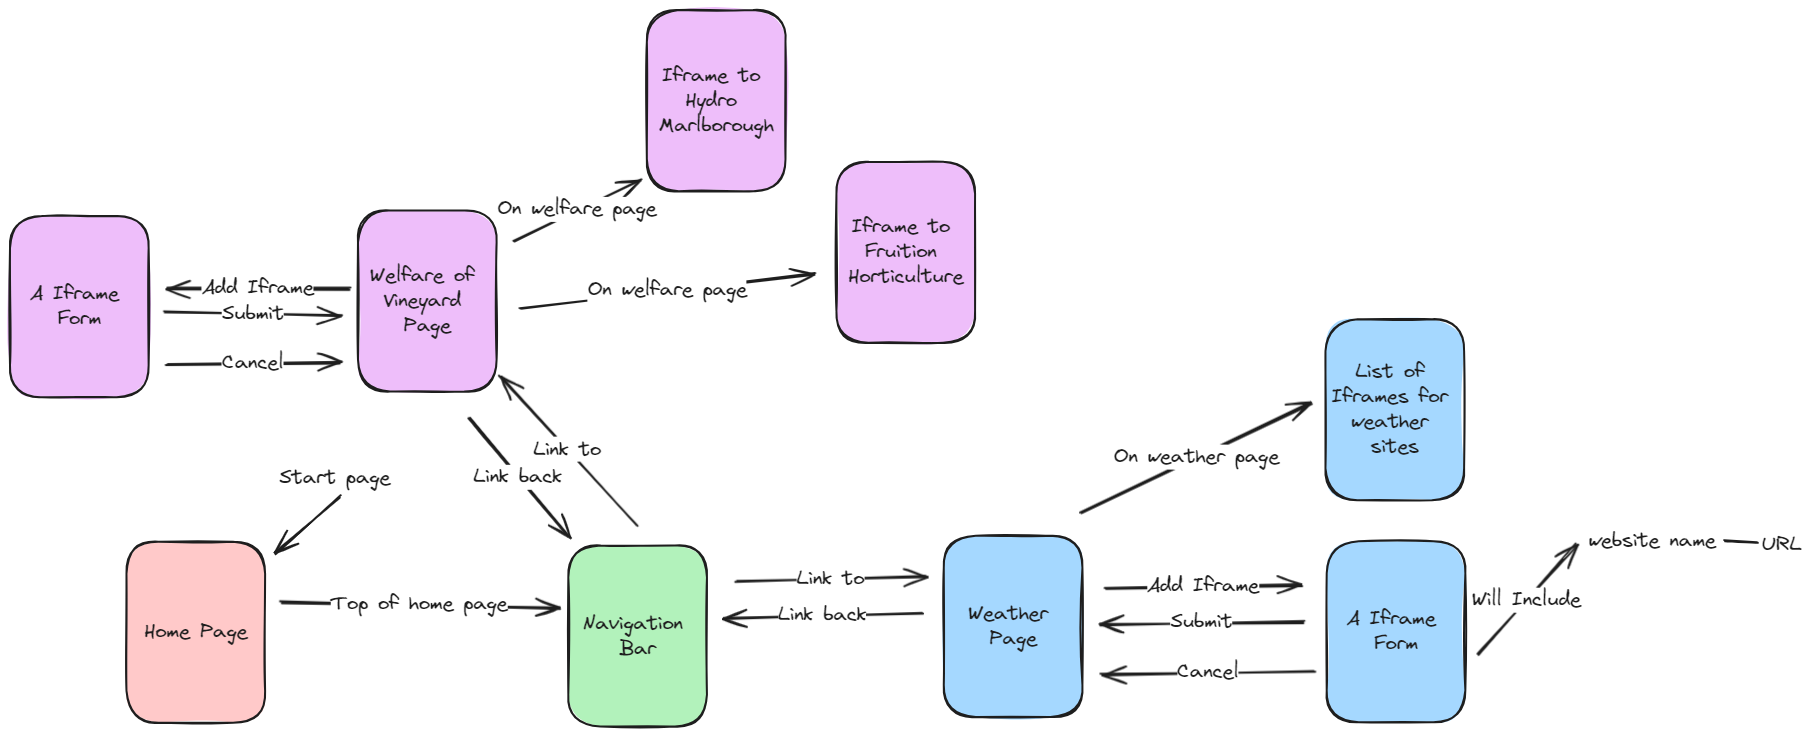
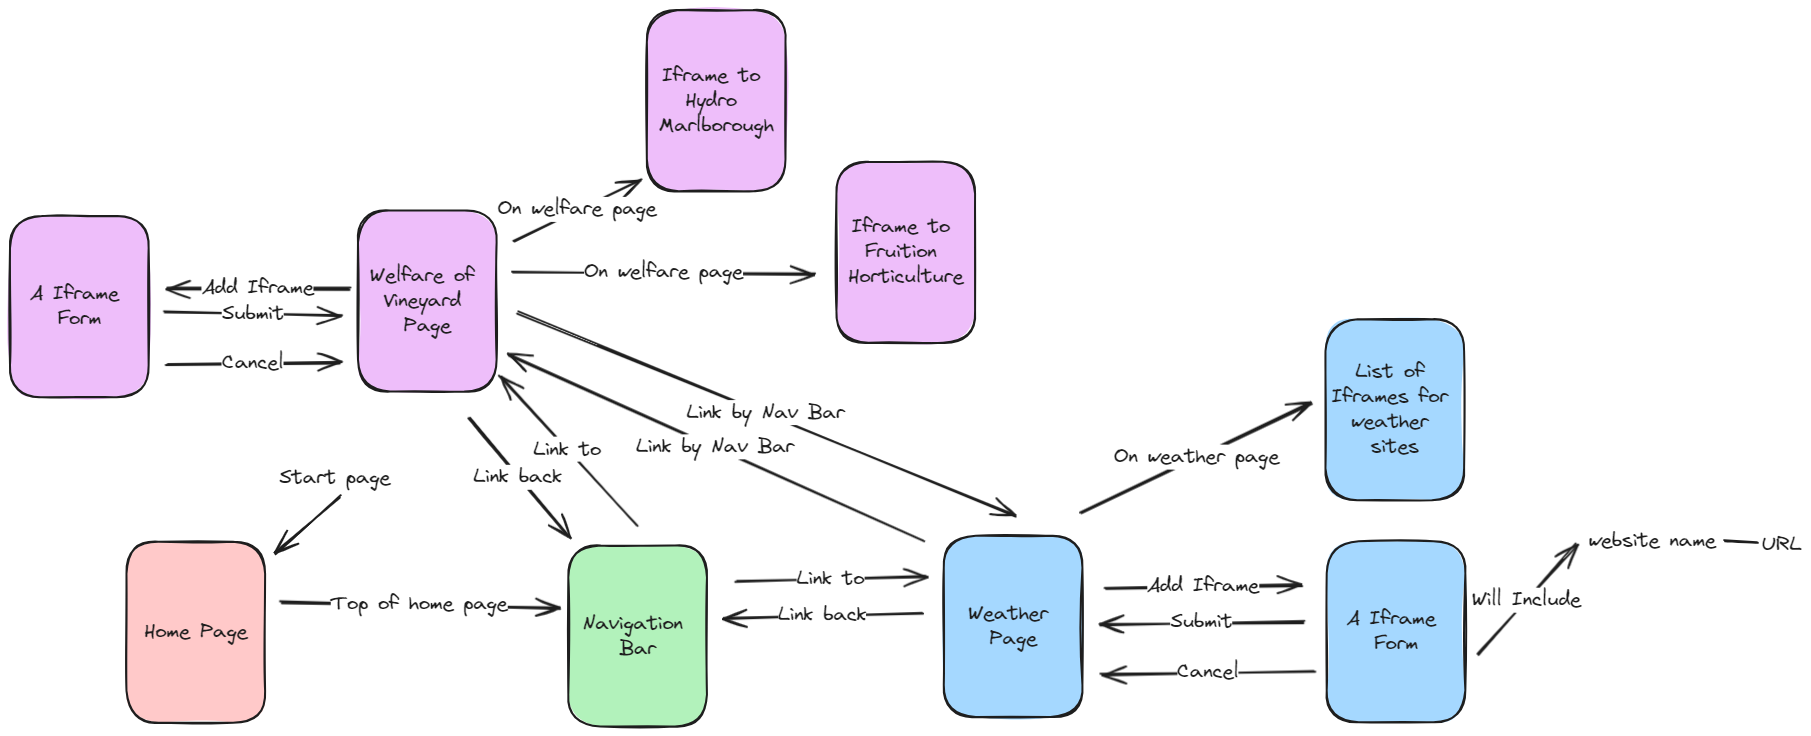
Questioning my sanity
For some reason i had two Design.md's
and two Development.md's

diff --git a/Development.md b/Development.md
@@ -13,12 +13,15 @@ Assessment Standards: **91892** and **91893**
 
 ### 16/05/2024
 
-In DrawSQL, I am working on V1 the wire frame for the Vineyard Website 
+In DrawSQL, I am working on V1 the wire frame for the Vineyard Website  
 
-I am working on creating a layout for the website. This will be done by having the home page as the hub to get to various parts of the website. 
-This is my first version of the wire frame without any input by the end user.
-![Flow Chart Excalidraw](images/Flow1.png)
-![Flow Chart V2](images/Flow2.png)
+I am working on creating a layout for the website. This will be done by having the home page as the hub to get to various parts of the website.  
+Flow chart one is my first version of the wire frame without any input by the end user. 
+
+![Flow Chart Excalidraw](images/Flow1.png) 
+![Flow Chart V2](images/Flow2.png) 
+
+Flow chart two is my revamped design of flow chart one. I did this because i wanted to make sure I have a thought-out design, before I show this to my end user to get their honest feedback. 
 
 ### DATE HERE
 
